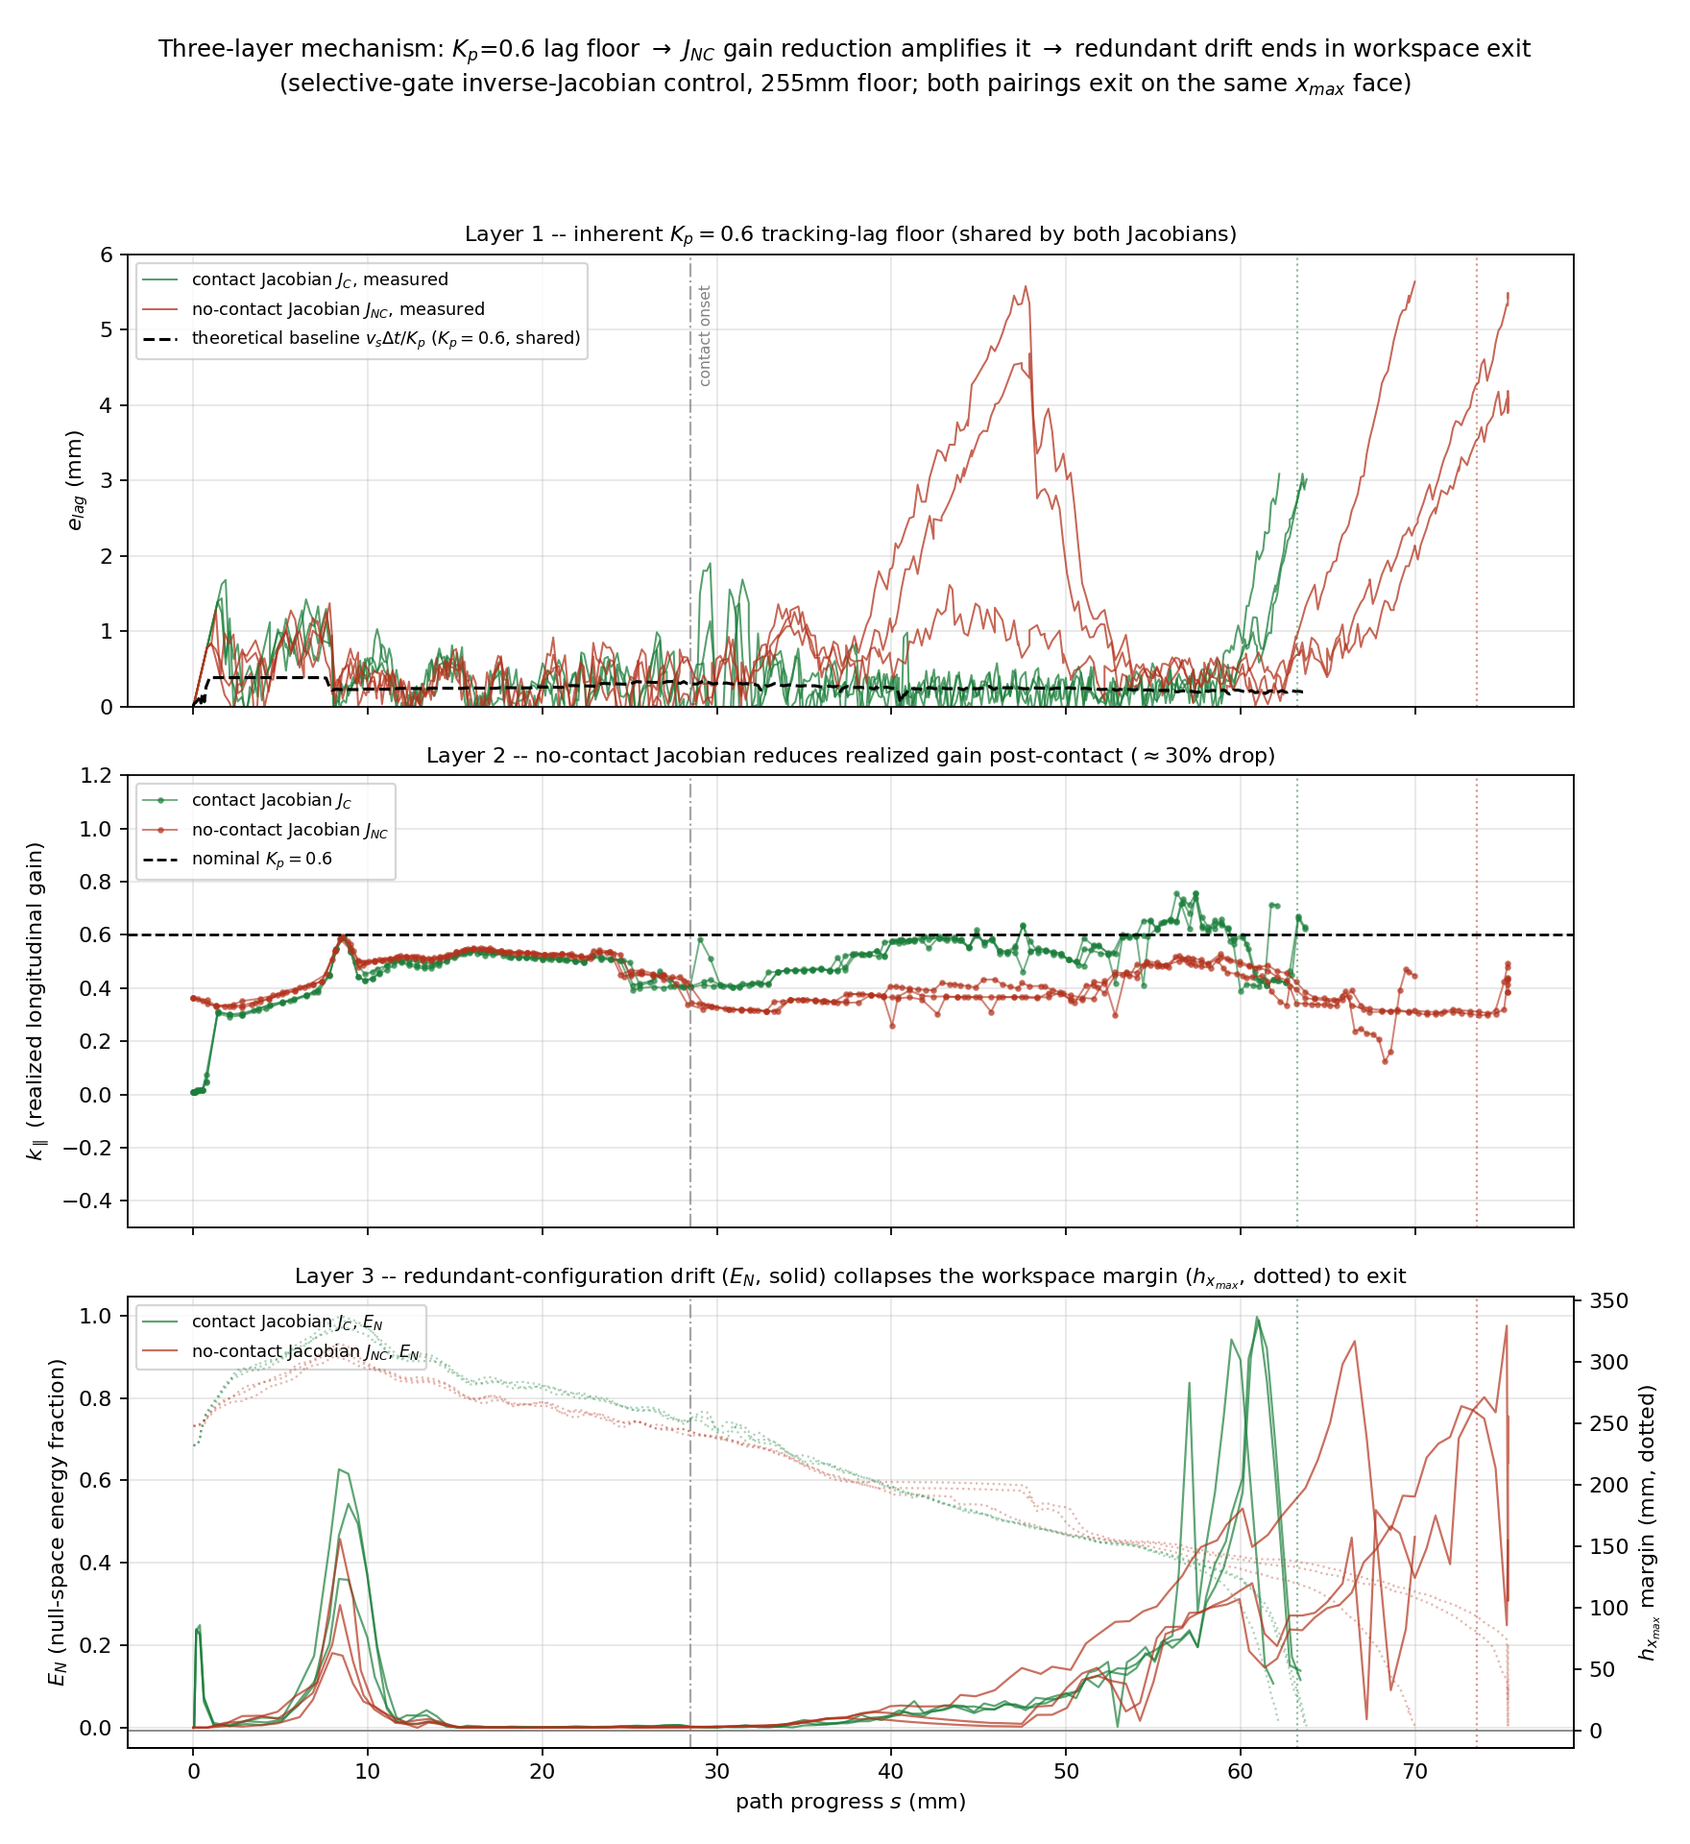
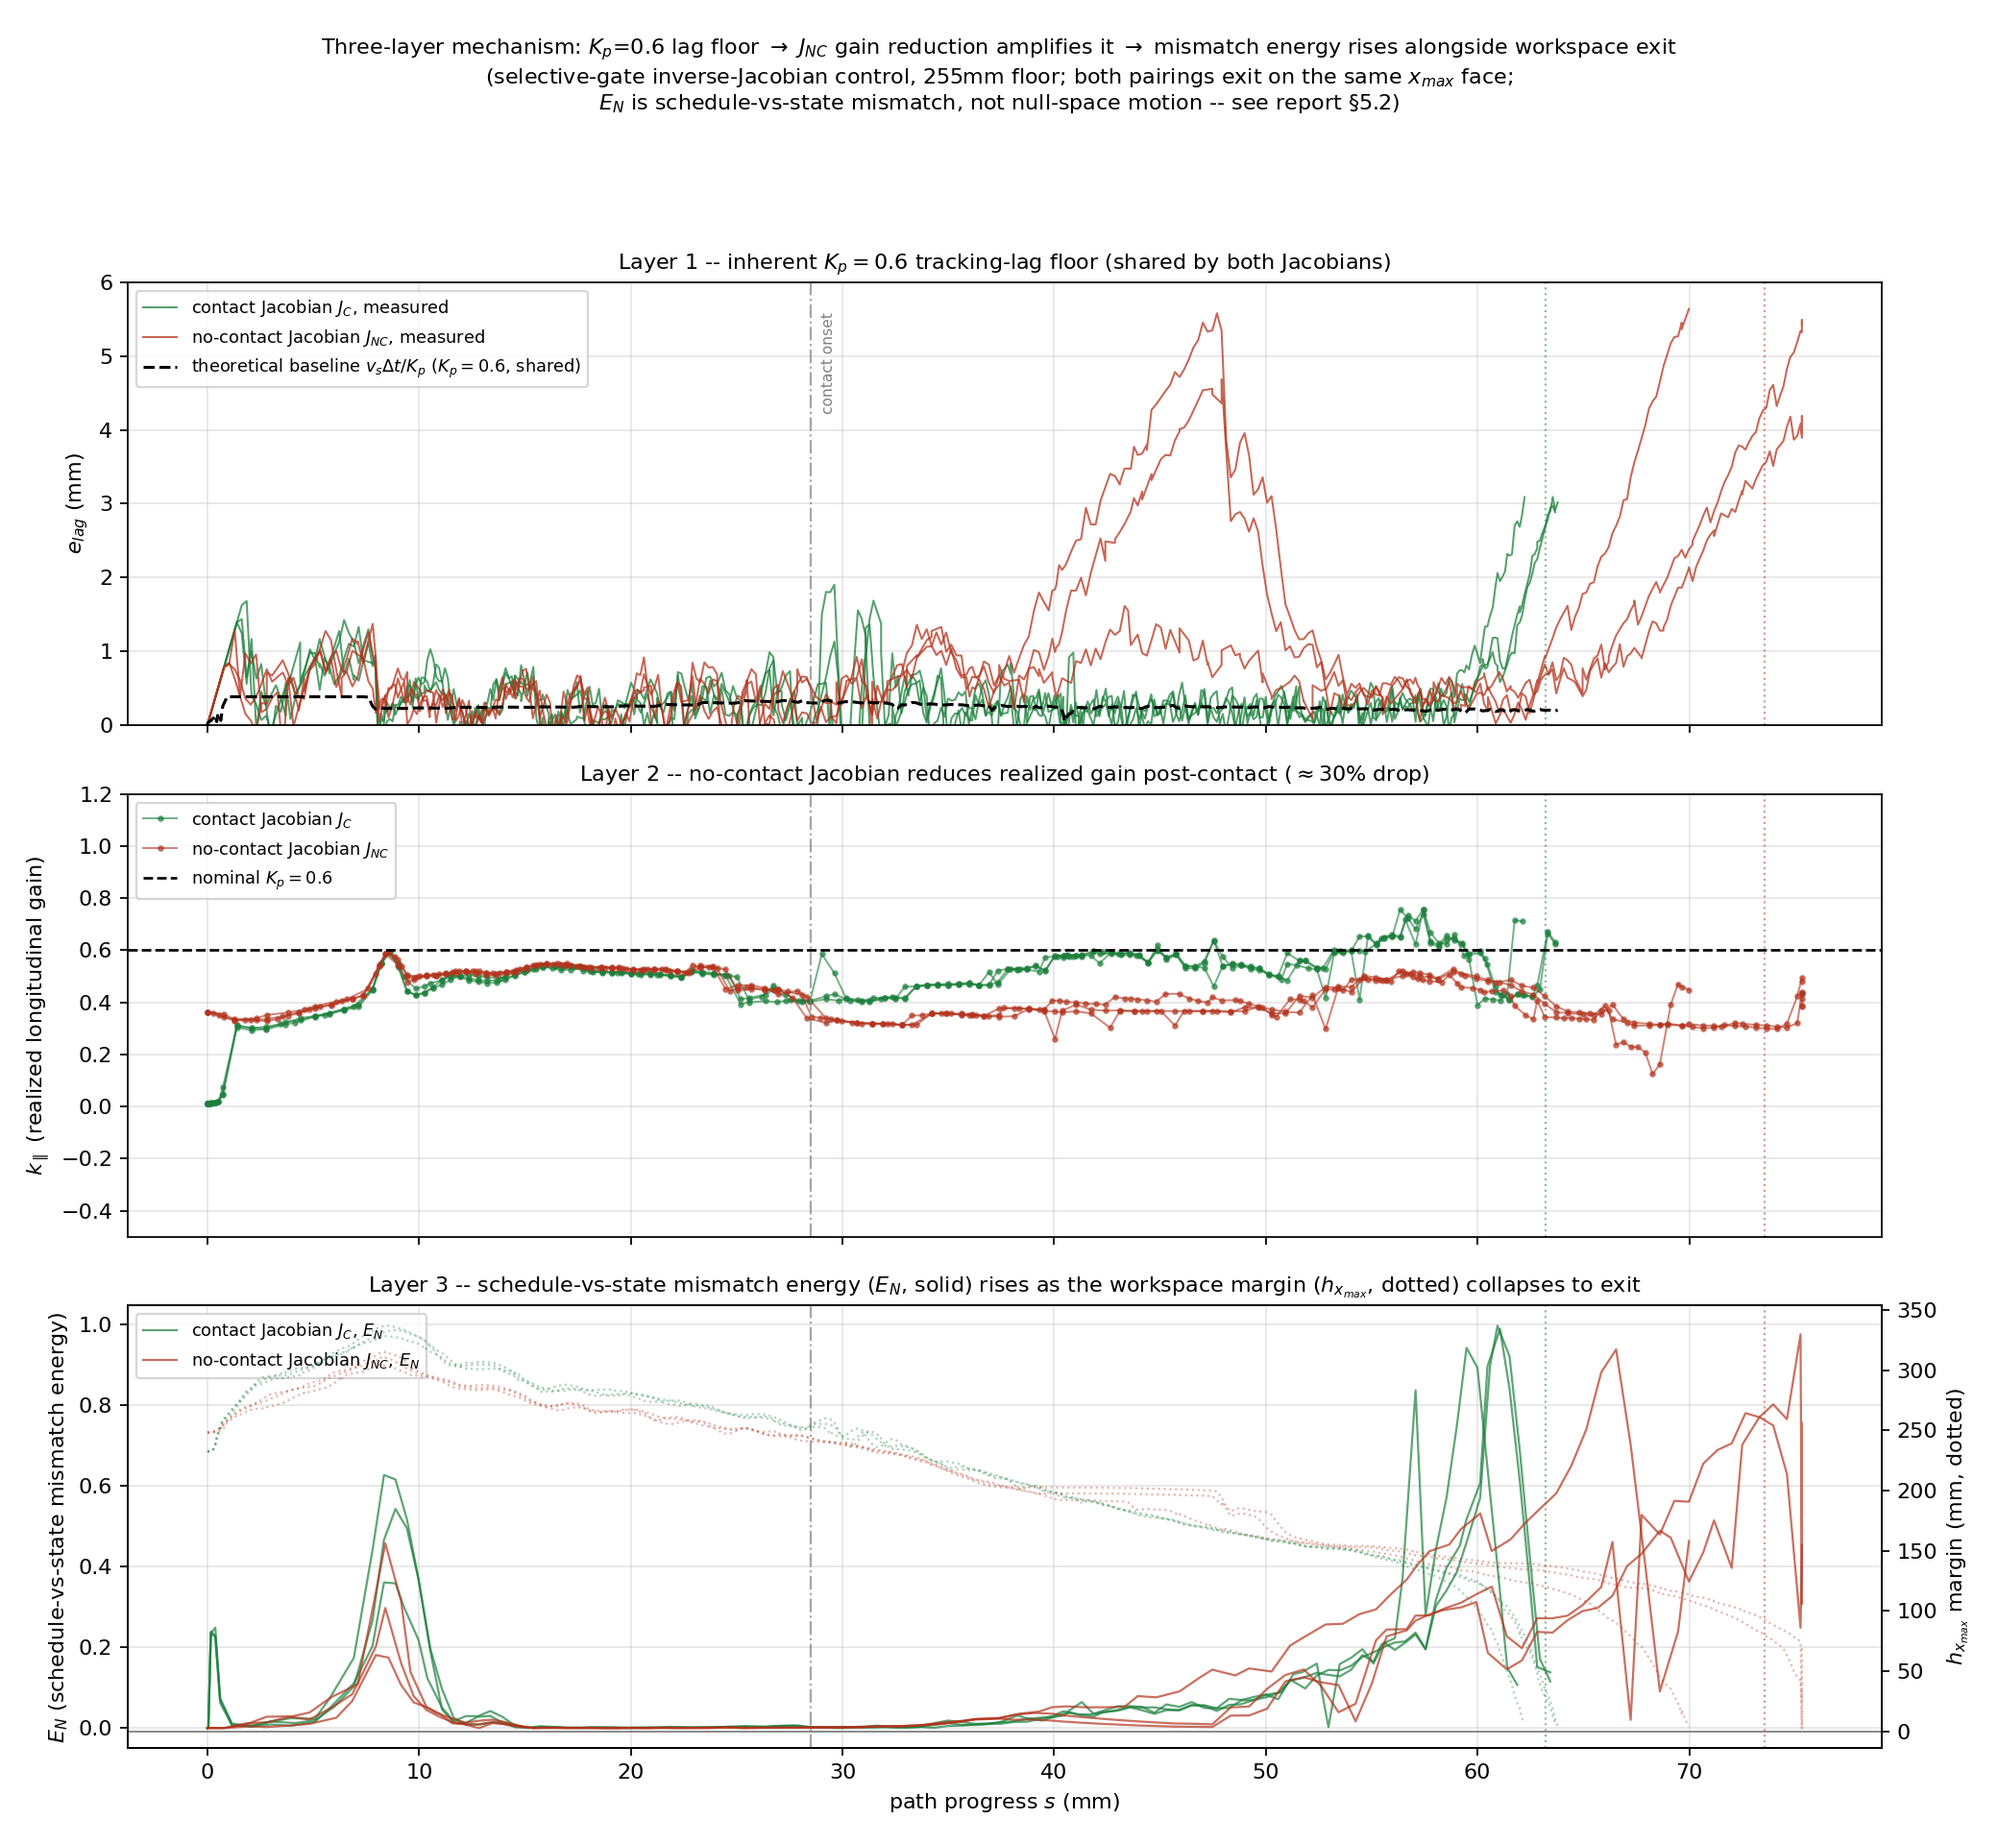
Fix stale "null-space energy" labels in the three-layer synthesis figure
The figure's own y-axis label, panel title, and suptitle still said
"null-space energy"/"redundant-configuration drift" after §5.2's
correction (E_N measures schedule-vs-state Jacobian mismatch, not the
control law's own null-space behaviour). Caught in review before sending
to the user. Data unchanged; only labels/captions corrected, plus a
minor layout widen so the longer subtitle fits.

Claude-Session: https://claude.ai/code/session_01Hc75DcS2amvQWtTP3Pp3wj

diff --git a/plans/stage3_design/full_stage3_analysis/scripts/lag_three_layer_synthesis.py b/plans/stage3_design/full_stage3_analysis/scripts/lag_three_layer_synthesis.py
@@ -11,9 +11,12 @@ a single three-row figure, one row per layer of the proposed mechanism:
                        k_parallel dropping below its nominal Kp=0.6 value
                        specifically post-contact, while the contact pairing
                        stays near nominal.
-  Layer 3 (bottom) -- the downstream redundant-configuration-drift chain:
-                       null-space energy E_N rising as the x_max workspace
-                       margin collapses to the tcp_out_of_workspace exit.
+  Layer 3 (bottom) -- schedule-vs-state Jacobian mismatch energy E_N (NOT
+                       the control law's own null-space behaviour -- see
+                       STAGE3_FINAL_REPORT_REVISED.md Sec 5.2 for why that
+                       characterization was corrected) rising alongside the
+                       x_max workspace margin collapsing to the
+                       tcp_out_of_workspace exit.
 
 Contact onset (s=28.5mm, the contact model's own prediction, used
 throughout this report) and each pairing's mean workspace-exit s are marked
@@ -40,7 +43,7 @@ onset = pd.read_csv(f"{OUT}/tables/lag_chronology_onset_summary.csv")
 
 exit_s_mean = onset.groupby("pairing")["final_s_mm"].mean()
 
-fig, axes = plt.subplots(3, 1, figsize=(11, 12), sharex=True)
+fig, axes = plt.subplots(3, 1, figsize=(13, 12), sharex=True)
 
 # --- Layer 1: inherent Kp=0.6 lag floor ---
 ax = axes[0]
@@ -95,10 +98,10 @@ for pairing, color in COLOR.items():
     for rep, d in sub_m.groupby("rep"):
         d = d.sort_values("s_mm")
         ax2.plot(d.s_mm, d.margin_x_max_mm, color=color, lw=1.0, alpha=0.35, ls=":")
-ax.set_ylabel(r"$E_N$ (null-space energy fraction)", fontsize=10)
+ax.set_ylabel(r"$E_N$ (schedule-vs-state mismatch energy)", fontsize=10)
 ax2.set_ylabel(r"$h_{x_{max}}$ margin (mm, dotted)", fontsize=10)
 ax2.axhline(0, color="gray", lw=0.8, ls="-")
-ax.set_title("Layer 3 -- redundant-configuration drift ($E_N$, solid) collapses the workspace margin ($h_{x_{max}}$, dotted) to exit", fontsize=10)
+ax.set_title("Layer 3 -- schedule-vs-state mismatch energy ($E_N$, solid) rises as the workspace margin ($h_{x_{max}}$, dotted) collapses to exit", fontsize=10)
 ax.legend(fontsize=8, loc="upper left")
 ax.grid(alpha=0.3)
 ax.set_xlabel("path progress $s$ (mm)", fontsize=10)
@@ -110,9 +113,10 @@ for ax in axes:
 axes[0].text(CONTACT_ONSET_MM + 0.5, 5.6, "contact onset", fontsize=7, color="gray", rotation=90, va="top")
 
 fig.suptitle(
-    "Three-layer mechanism: $K_p$=0.6 lag floor $\\to$ $J_{NC}$ gain reduction amplifies it $\\to$ redundant drift ends in workspace exit\n"
-    "(selective-gate inverse-Jacobian control, 255mm floor; both pairings exit on the same $x_{max}$ face)",
-    fontsize=11,
+    "Three-layer mechanism: $K_p$=0.6 lag floor $\\to$ $J_{NC}$ gain reduction amplifies it $\\to$ mismatch energy rises alongside workspace exit\n"
+    "(selective-gate inverse-Jacobian control, 255mm floor; both pairings exit on the same $x_{max}$ face;\n"
+    "$E_N$ is schedule-vs-state mismatch, not null-space motion -- see report §5.2)",
+    fontsize=10,
 )
 fig.tight_layout(rect=(0, 0, 1, 0.94))
 f = f"{OUT}/figures/lag_three_layer_synthesis.png"
